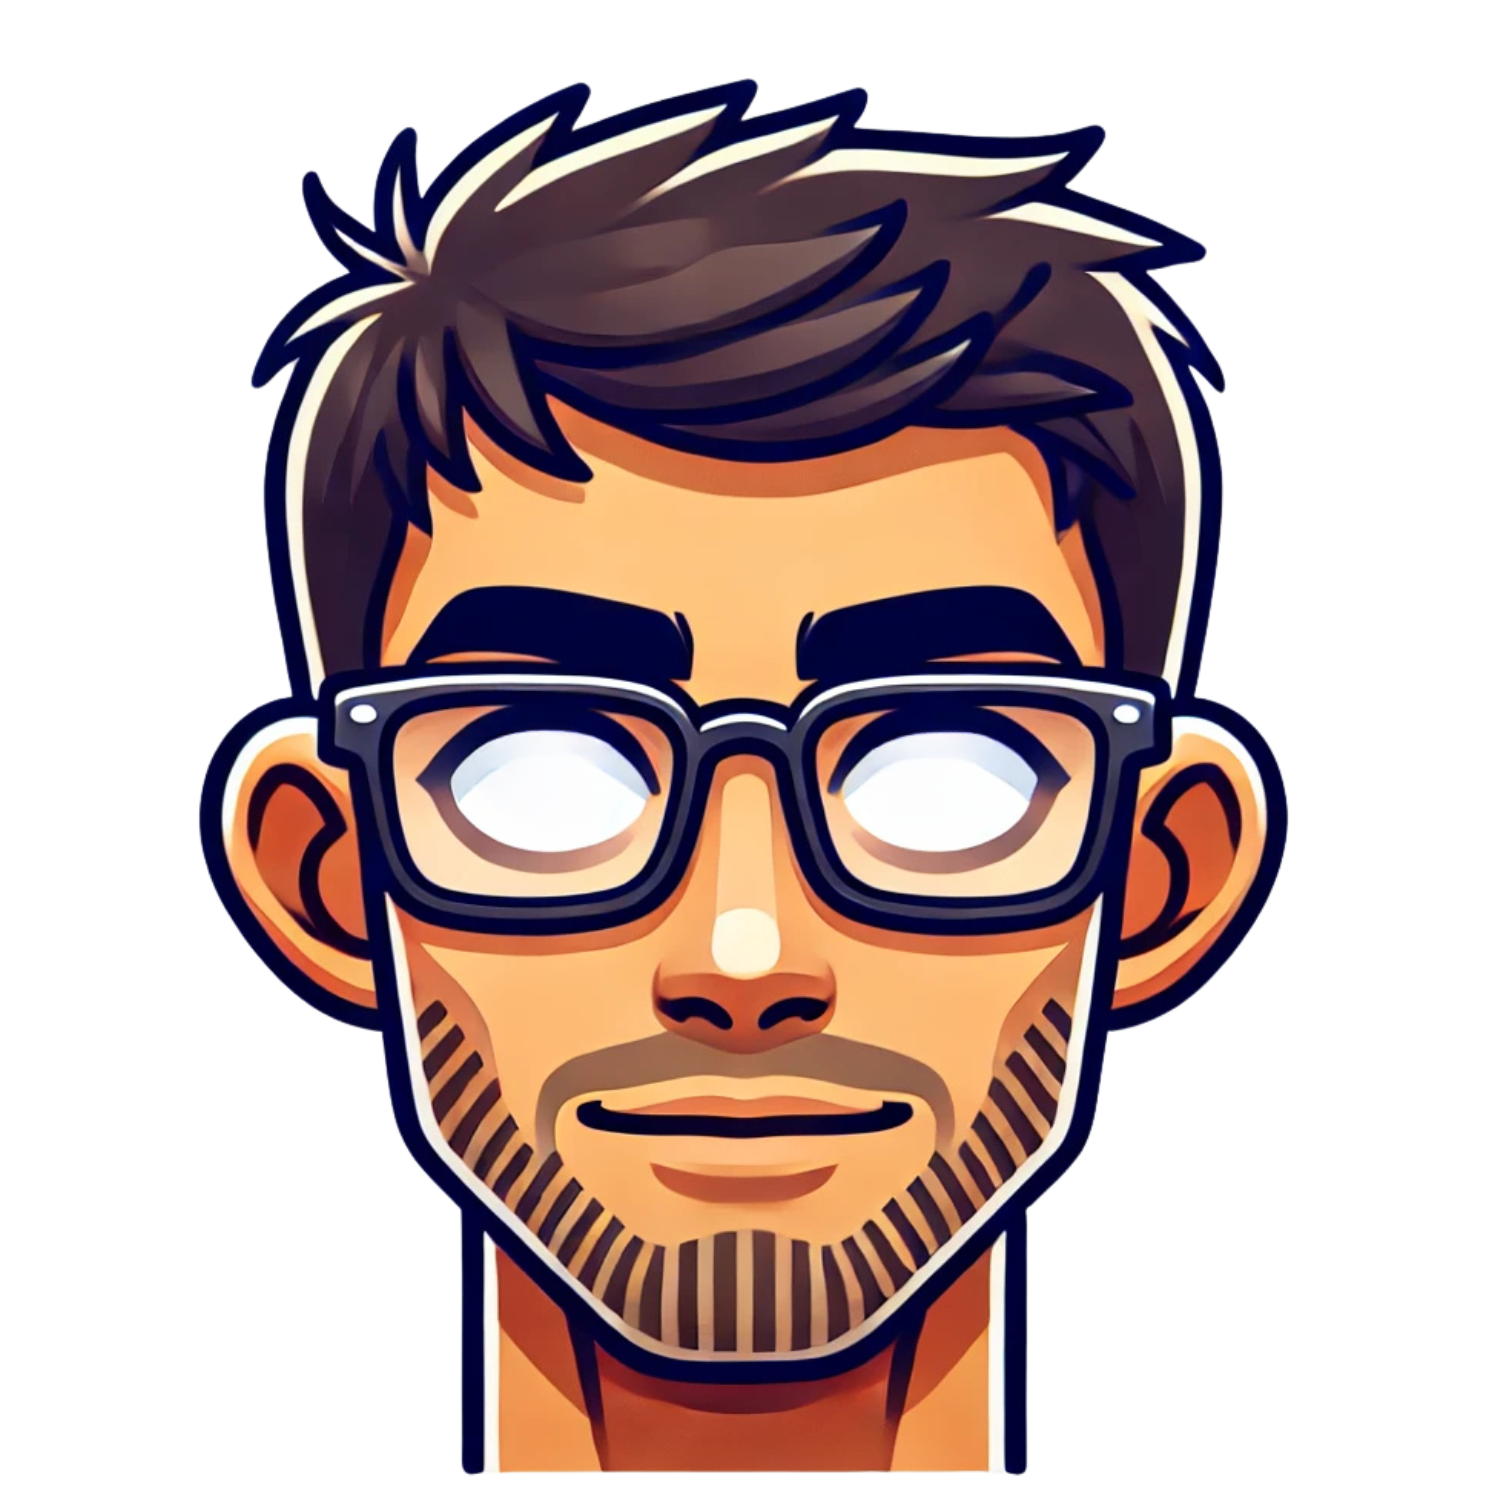
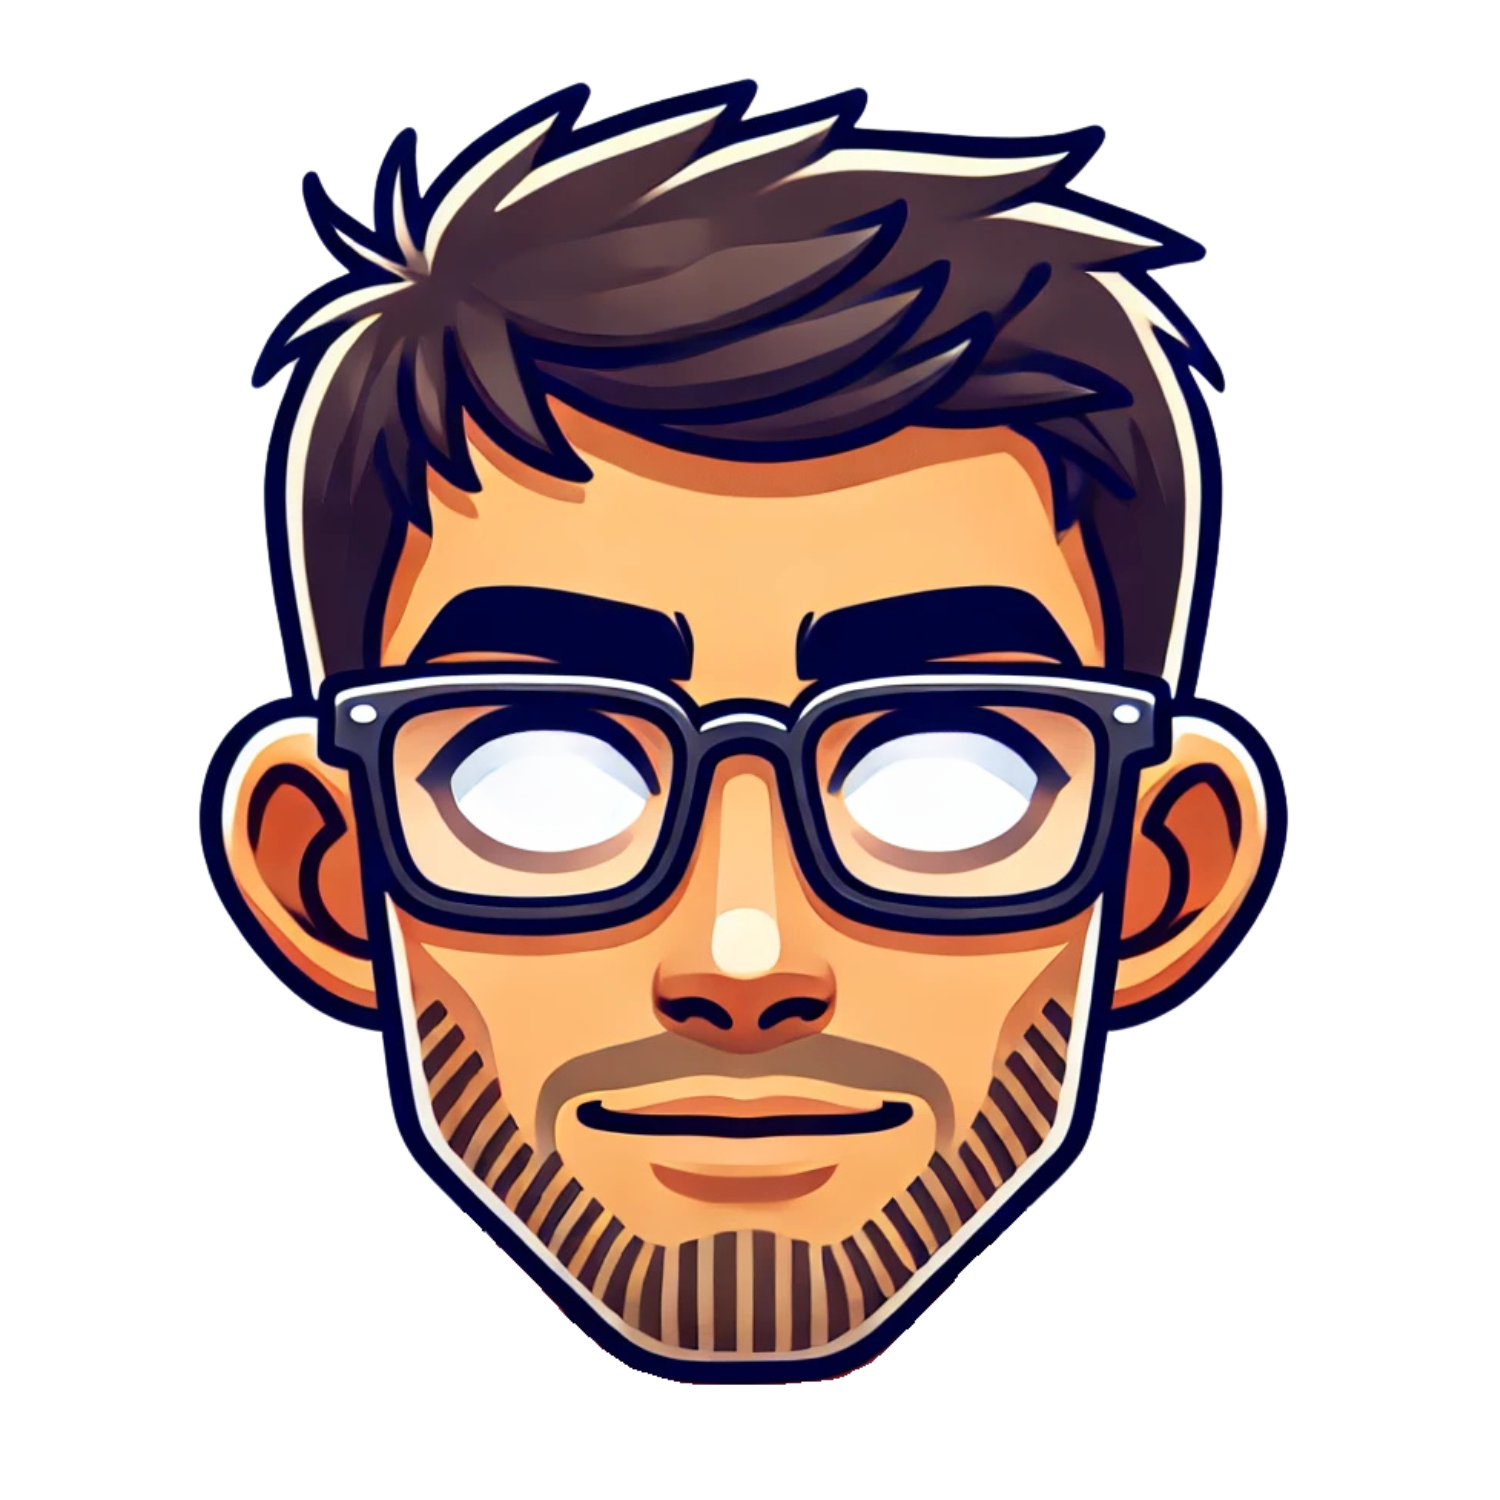
face animations done

Changed region(s): [[0.3067, 0.7973, 0.7053, 0.9813]]

diff --git a/components/Landing/Hero.tsx b/components/Landing/Hero.tsx
@@ -4,19 +4,21 @@ import React, { useEffect, useRef } from 'react';
 import Image from 'next/image';
 
 const Hero: React.FC = () => {
-  const anchorRef = useRef<HTMLImageElement>(null);
-  const eyesRef = useRef<NodeListOf<HTMLElement> | null>(null);
-  const mousePos = useRef({ x: 0, y: 0 });
-  const animationFrameId = useRef<number | null>(null);
+  const anchorRef = useRef<HTMLDivElement>(null); // Reference to the container
+  const eyesRef = useRef<NodeListOf<HTMLElement> | null>(null); // Reference to the eyes
+  const faceRef = useRef<HTMLImageElement>(null); // Reference to the face (single element)
+  const mousePos = useRef({ x: 0, y: 0 }); // Track mouse position
+  const animationFrameId = useRef<number | null>(null); // Track animation frame
 
   // Cache the eyes and update mouse position on mousemove
   useEffect(() => {
-    eyesRef.current = document.querySelectorAll('.eye');
+    eyesRef.current = document.querySelectorAll('.eye'); // Query all eyes
 
     const handleMouseMove = (event: MouseEvent) => {
       mousePos.current = { x: event.clientX, y: event.clientY };
       if (!animationFrameId.current) {
         animationFrameId.current = requestAnimationFrame(updateEyePosition);
+        animationFrameId.current = requestAnimationFrame(updateFacePosition);
       }
     };
 
@@ -41,7 +43,7 @@ const Hero: React.FC = () => {
     const anchorY = rekt.top + rekt.height / 2;
 
     // Define the maximum distance for x and y axes
-    const maxDistance = 10; // Max movement
+    const maxDistance = 15; // Max movement
 
     // Calculate the difference between the mouse and the face center
     const diffX = mouseX - anchorX;
@@ -63,6 +65,43 @@ const Hero: React.FC = () => {
 
     // Request the next animation frame
     animationFrameId.current = requestAnimationFrame(updateEyePosition);
+  };
+
+  // Update face position using requestAnimationFrame
+  const updateFacePosition = () => {
+    if (!anchorRef.current || !faceRef.current) return;
+
+    const { x: mouseX, y: mouseY } = mousePos.current;
+    const rekt = anchorRef.current.getBoundingClientRect();
+
+    // Calculate the center of the anchor element (face)
+    const anchorX = rekt.left + rekt.width / 2;
+    const anchorY = rekt.top + rekt.height / 2;
+
+    // Define the maximum distance for x and y axes
+    const maxDistance = 5; // Max movement
+    const maxRotation = 3; // Max rotation in degrees
+
+    // Calculate the difference between the mouse and the face center
+    const diffX = mouseX - anchorX;
+    const diffY = mouseY - anchorY;
+
+    // Calculate the distance between the mouse and the face center
+    const distance = Math.sqrt(diffX * diffX + diffY * diffY);
+
+    // Normalize the difference to limit the movement
+    const ratio = Math.min(maxDistance / distance, 1);
+    const moveX = diffX * ratio;
+    const moveY = diffY * ratio;
+
+    // Calculate rotation based on mouse position
+    const rotation = (diffX / window.innerWidth) * maxRotation;
+
+    // Apply translation and rotation to the face element
+    faceRef.current.style.transform = `translate(${moveX}px, ${moveY}px) rotate(${rotation}deg)`;
+
+    // Request the next animation frame
+    animationFrameId.current = requestAnimationFrame(updateFacePosition);
   };
 
   return (
@@ -96,26 +135,42 @@ const Hero: React.FC = () => {
           <div className='border-l border-black h-80 translate-x-8 mt-6'></div>
         </section>
       </div>
-      <div className='-translate-y-20 translate-x-10 grid place-items-center relative'>
+      <div
+        ref={anchorRef}
+        id='anchor'
+        className='-translate-y-20 translate-x-10 grid place-items-center relative'
+      >
         <Image
-          ref={anchorRef}
-          id='anchor'
+          ref={faceRef}
+          className='face z-10'
           alt='face'
           width={650}
           height={650}
           src='clip-art-face.png'
+          style={{
+            transform: 'translate(var(--move-x, 0), var(--move-y, 0))',
+            transformOrigin: 'center 30%', // Rotate from 20px above the bottom
+            transition: 'transform 0.2s ease-out', // Smooth transition
+          }}
         />
         <Image
-          className='eye absolute top-[410px] left-[220px]'
-          alt='face'
+          className='absolute top-[80px]'
+          alt='neck z-0'
+          width={650}
+          height={650}
+          src='clip-art-neck.png'
+        />
+        <Image
+          className='eye z-20 absolute top-[410px] left-[220px]'
+          alt='left-eye'
           width={45}
           height={45}
           src='clip-art-eye.png'
           style={{ transform: 'translate(var(--move-x, 0), var(--move-y, 0))' }}
         />
         <Image
-          className='eye absolute top-[410px] right-[220px]'
-          alt='face'
+          className='eye z-20 absolute top-[410px] right-[220px]'
+          alt='right-eye'
           width={45}
           height={45}
           src='clip-art-eye.png'
